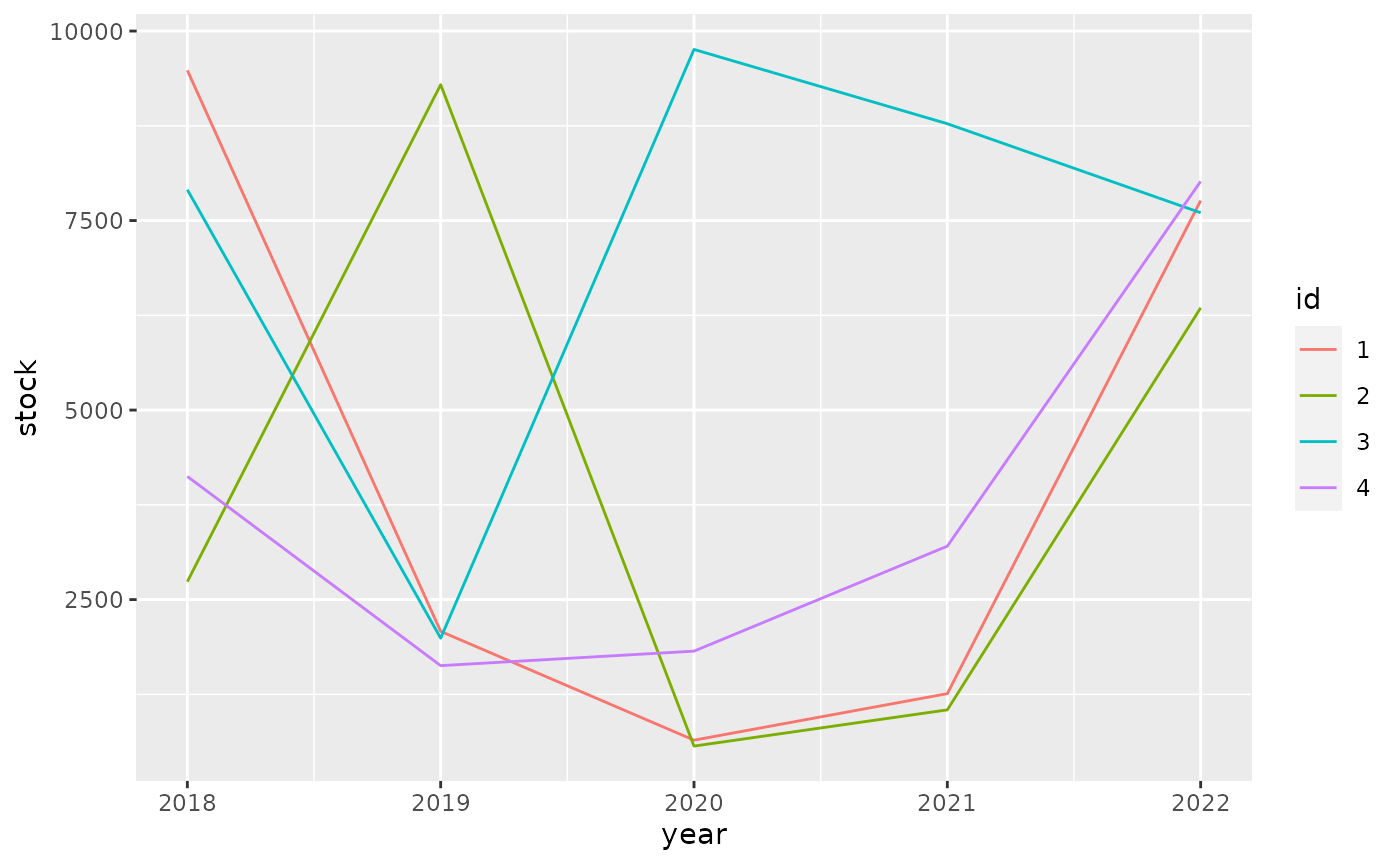
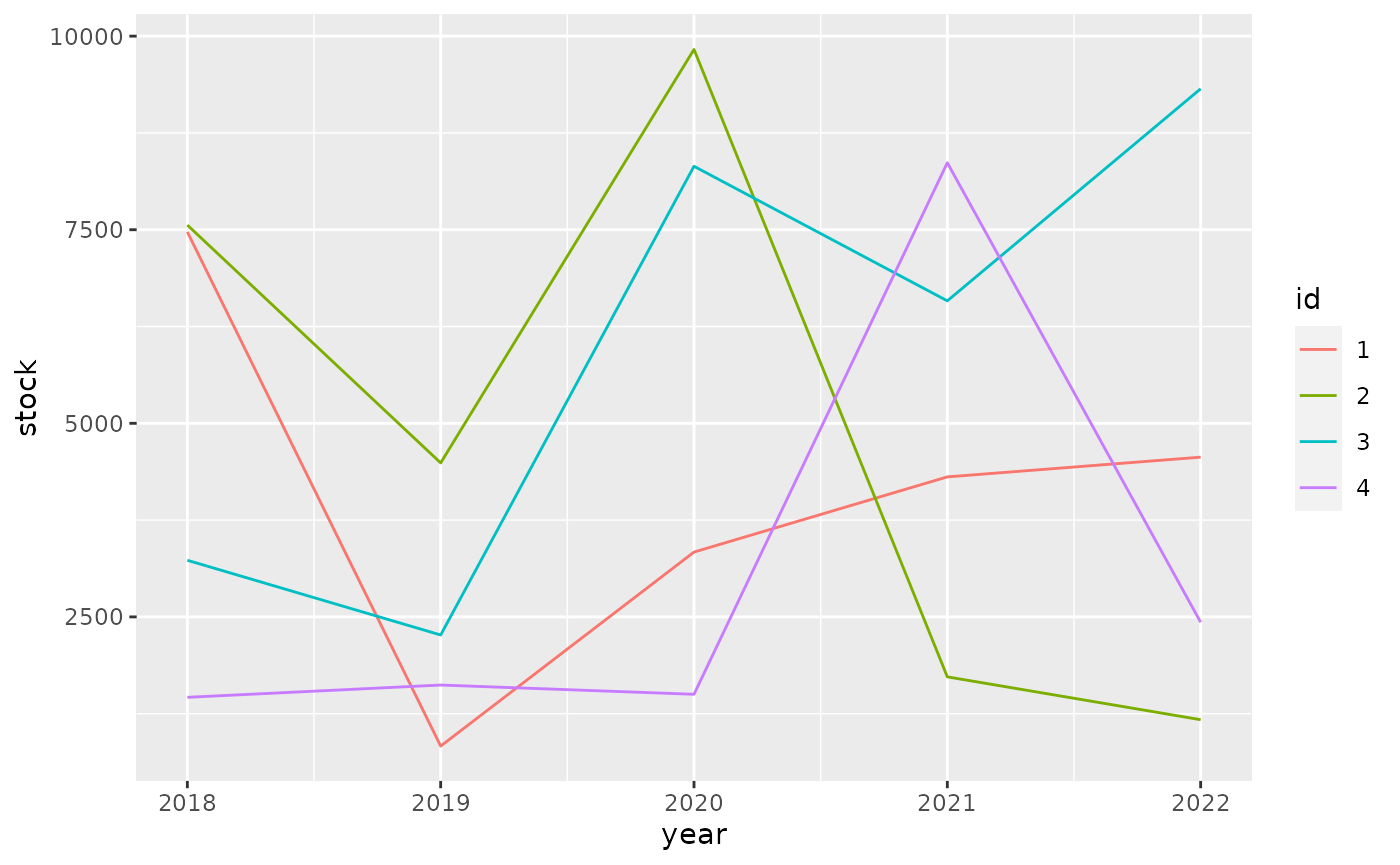
Built site for tibble: 3.1.3@bb943fc

diff --git a/articles/formats.html b/articles/formats.html
@@ -220,10 +220,10 @@
 <span class="co">#&gt; # A tibble: 4 × 6</span>
 <span class="co">#&gt;   id       `2018`    `2019`    `2020`    `2021`    `2022`</span>
 <span class="co">#&gt;   &lt;fct&gt; &lt;dbl:fmt&gt; &lt;dbl:fmt&gt; &lt;dbl:fmt&gt; &lt;dbl:fmt&gt; &lt;dbl:fmt&gt;</span>
-<span class="co">#&gt; 1 1     $9,482.17 $2,080.68   $645.35 $1,259.10 $7,763.51</span>
-<span class="co">#&gt; 2 2     $2,736.25 $9,292.97   $567.41 $1,045.15 $6,348.83</span>
-<span class="co">#&gt; 3 3     $7,907.44 $1,990.96 $9,757.46 $8,777.59 $7,603.41</span>
-<span class="co">#&gt; 4 4     $4,124.59 $1,628.46 $1,819.82 $3,204.72 $8,017.71</span></code></pre></div>
+<span class="co">#&gt; 1 1     $7,472.13   $831.69 $3,337.28 $4,308.22 $4,562.99</span>
+<span class="co">#&gt; 2 2     $7,560.19 $4,488.77 $9,828.27 $1,725.66 $1,172.30</span>
+<span class="co">#&gt; 3 3     $3,231.27 $2,266.52 $8,319.43 $6,581.47 $9,320.20</span>
+<span class="co">#&gt; 4 4     $1,461.37 $1,620.05 $1,500.54 $8,364.90 $2,430.54</span></code></pre></div>
 <p>For ggplot2 we need to do <a href="https://github.com/tidyverse/ggplot2/pull/4065" class="external-link">some work</a> to show apply the formatting to the scales.</p>
 <div class="sourceCode" id="cb6"><pre class="downlit sourceCode r">
 <code class="sourceCode R"><span class="kw"><a href="https://rdrr.io/r/base/library.html" class="external-link">library</a></span><span class="op">(</span><span class="va"><a href="https://ggplot2.tidyverse.org" class="external-link">ggplot2</a></span><span class="op">)</span>
@@ -234,10 +234,10 @@
   <span class="fu"><a href="https://ggplot2.tidyverse.org/reference/geom_path.html" class="external-link">geom_line</a></span><span class="op">(</span><span class="op">)</span></code></pre></div>
 <p><img src="formats_files/figure-html/unnamed-chunk-7-1.png" width="700"></p>
 <p>It pays off to specify formatting very early in the process. The diagram below shows the principal stages of data analysis and exploration from “R for data science”.</p>
-<div id="htmlwidget-c4a33ff10ef302b92371" style="width:700px;height:432.632880098888px;" class="DiagrammeR html-widget"></div>
-<script type="application/json" data-for="htmlwidget-c4a33ff10ef302b92371">{"x":{"diagram":"graph TD\n  Import --> Tidy\n  Tidy --> Transform\n  Transform --> Visualize\n  Visualize --> Communicate\n  Visualize --> Model\n  Model -.-> Transform"},"evals":[],"jsHooks":[]}</script><p>The subsequent diagram adds data formats, communication options, and explicit data formatting. The original r4ds transitions are highlighted in bold. There are two principal options where to apply formatting for results: right before communicating them, or right after importing.</p>
-<div id="htmlwidget-798f86cf1d9413f9a58f" style="width:700px;height:432.632880098888px;" class="DiagrammeR html-widget"></div>
-<script type="application/json" data-for="htmlwidget-798f86cf1d9413f9a58f">{"x":{"diagram":"graph TD\n  .csv --> Import\n  API --> Import\n  DBI --> Import\n  dbplyr --> Import\n  Import -.-> Format[Format for analysis]\n  Format -.-> Tidy\n\n  subgraph r4ds\n  Import ==> Tidy\n  Tidy ==> Transform\n  Transform ==> Visualize\n  Visualize ==> Model\n  Model -.-> Transform\n  Visualize ==> Communicate\n  end\n\n  Visualize -.-> FormatComm[Format for communication]\n  FormatComm -.-> Communicate\n\n  FormatComm -- Apply formatting early --> Format\n\n  dbplyr -.-> Tidy\n  dbplyr -.-> Transform\n  dbplyr -.-> Visualize\n\n  Communicate --> gt\n  Communicate --> ggplot2\n  Communicate --> DT\n  Communicate --> plotly"},"evals":[],"jsHooks":[]}</script><p>Applying formatting early in the process gives the added benefit of showing the data in a useful format during the “Tidy”, “Transform”, and “Visualize” stages. For this to be useful, we need to ensure that the formatting options applied early:</p>
+<div id="htmlwidget-b8c9367c2372e926707d" style="width:700px;height:432.632880098888px;" class="DiagrammeR html-widget"></div>
+<script type="application/json" data-for="htmlwidget-b8c9367c2372e926707d">{"x":{"diagram":"graph TD\n  Import --> Tidy\n  Tidy --> Transform\n  Transform --> Visualize\n  Visualize --> Communicate\n  Visualize --> Model\n  Model -.-> Transform"},"evals":[],"jsHooks":[]}</script><p>The subsequent diagram adds data formats, communication options, and explicit data formatting. The original r4ds transitions are highlighted in bold. There are two principal options where to apply formatting for results: right before communicating them, or right after importing.</p>
+<div id="htmlwidget-dd14ff0e2893d56b4286" style="width:700px;height:432.632880098888px;" class="DiagrammeR html-widget"></div>
+<script type="application/json" data-for="htmlwidget-dd14ff0e2893d56b4286">{"x":{"diagram":"graph TD\n  .csv --> Import\n  API --> Import\n  DBI --> Import\n  dbplyr --> Import\n  Import -.-> Format[Format for analysis]\n  Format -.-> Tidy\n\n  subgraph r4ds\n  Import ==> Tidy\n  Tidy ==> Transform\n  Transform ==> Visualize\n  Visualize ==> Model\n  Model -.-> Transform\n  Visualize ==> Communicate\n  end\n\n  Visualize -.-> FormatComm[Format for communication]\n  FormatComm -.-> Communicate\n\n  FormatComm -- Apply formatting early --> Format\n\n  dbplyr -.-> Tidy\n  dbplyr -.-> Transform\n  dbplyr -.-> Visualize\n\n  Communicate --> gt\n  Communicate --> ggplot2\n  Communicate --> DT\n  Communicate --> plotly"},"evals":[],"jsHooks":[]}</script><p>Applying formatting early in the process gives the added benefit of showing the data in a useful format during the “Tidy”, “Transform”, and “Visualize” stages. For this to be useful, we need to ensure that the formatting options applied early:</p>
 <ul>
 <li>give a good user experience for analysis
 <ul>

diff --git a/articles/types.html b/articles/types.html
@@ -351,7 +351,7 @@
 #&gt; $ factor        &lt;fct&gt; A
 #&gt; $ ordered       &lt;ord&gt; a
 #&gt; $ Date          &lt;date&gt; 2021-07-22
-#&gt; $ POSIXt        &lt;dttm&gt; 2021-07-22 18:39:08
+#&gt; $ POSIXt        &lt;dttm&gt; 2021-07-22 18:40:40
 #&gt; $ difftime      &lt;drtn&gt; 1 secs
 #&gt; $ hms           &lt;time&gt; 00:00:01
 #&gt; $ integer64     &lt;int64&gt; 10000000000
@@ -387,7 +387,7 @@
 <span class="co">#&gt;             "sym"</span>
 <span class="co">#&gt;         }, typeof(x))</span>
 <span class="co">#&gt; }</span>
-<span class="co">#&gt; &lt;bytecode: 0x55cac1917ea0&gt;</span>
+<span class="co">#&gt; &lt;bytecode: 0x560ca3bd7ea0&gt;</span>
 <span class="co">#&gt; &lt;environment: namespace:pillar&gt;</span></code></pre></div>
 </div>
   </div>
